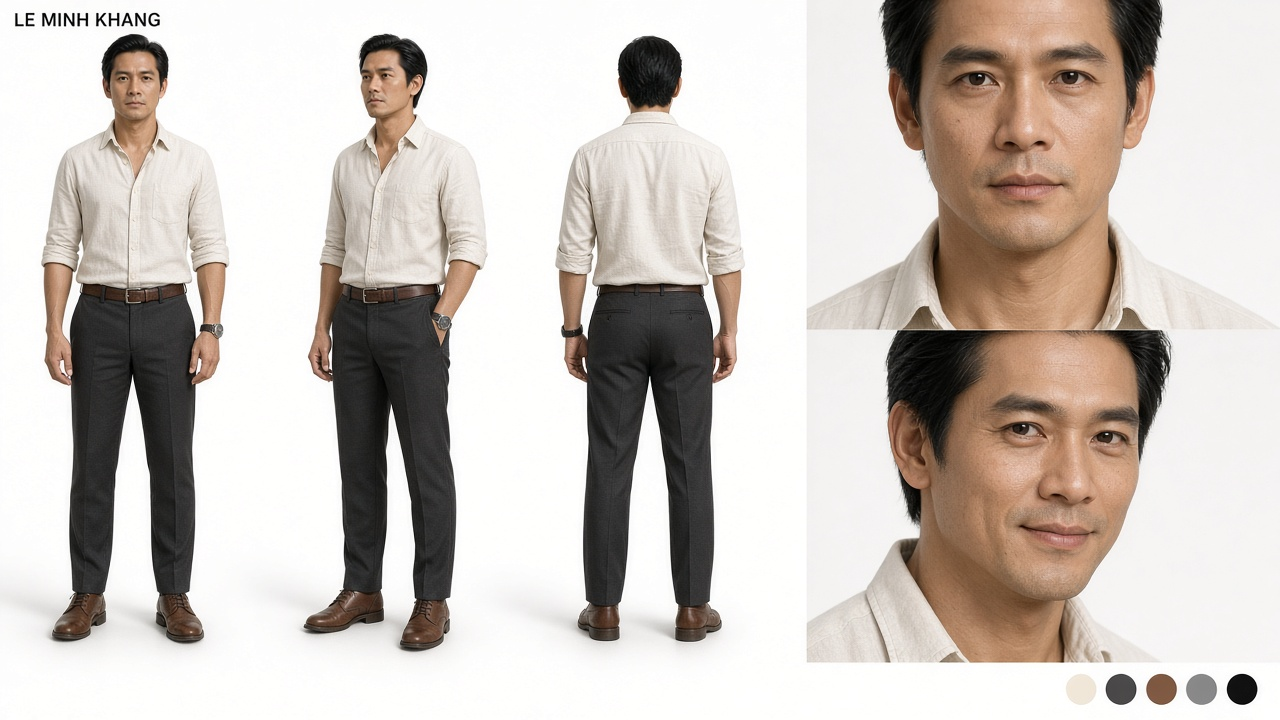
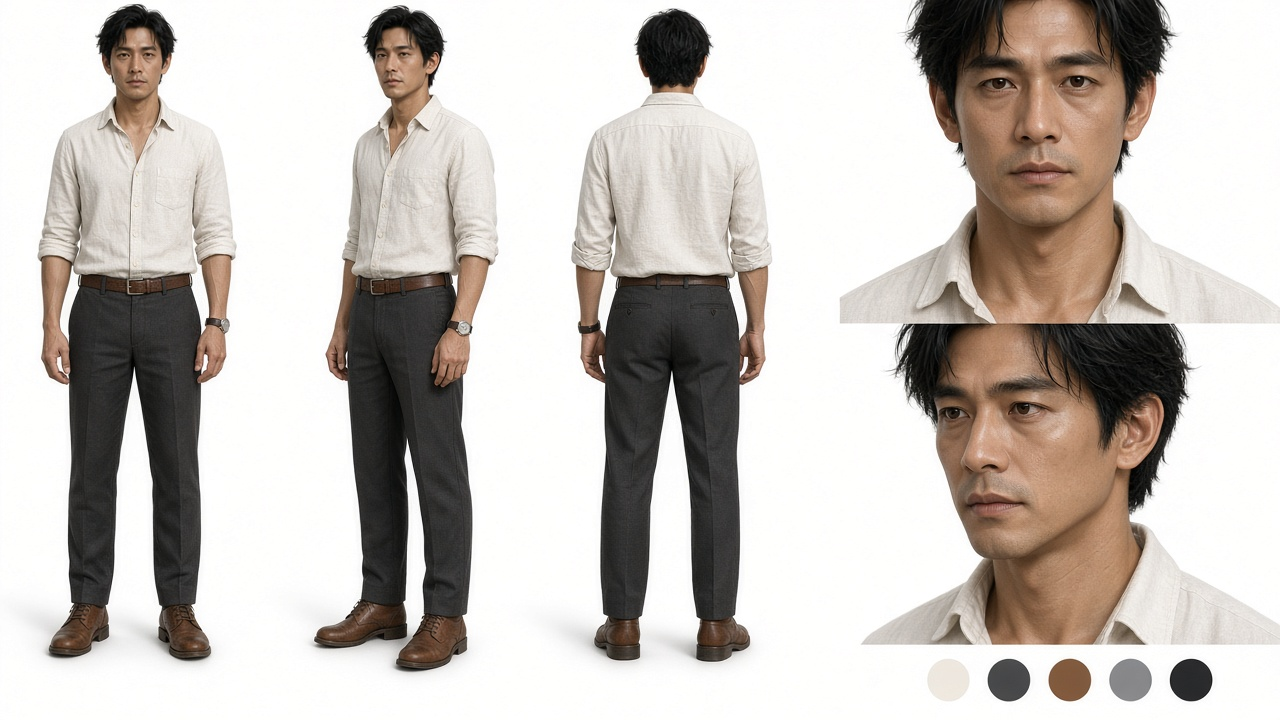
Khoá lại mặt Khang, Nam, Bảo, Lực: bốn khuôn khác xương và tuổi
Khang mặt dài mắt sâu; Nam tròn có lúm; Bảo 50 muối tiêu; Lực cua bạc đại tá.

diff --git a/character-sheet/character-sheet.md b/character-sheet/character-sheet.md
@@ -20,8 +20,8 @@ Thiết kế tạo hình nhân vật. Bối cảnh Sài Gòn 2026, phong cách h
 |---|---|
 | **Tuổi / Chiều cao** | 36 / 1m82 |
 | **Vóc dáng** | Gầy rắn, vai rộng, kiểu người tập võ chứ không tập gym |
-| **Gương mặt** | Góc hàm sắc, mắt sâu luôn như đang "đọc" người đối diện, vết sẹo mờ nhỏ ở cằm |
-| **Tóc** | Đen, ngắn, vuốt ngược tự nhiên, hơi rối về cuối ngày |
+| **Gương mặt** | Mặt dài hẹp, xương gò má cao, mắt sâu mí hơi sụp, môi mỏng, sẹo mờ 1 cm ở cằm. **Không** dùng chung khuôn với Nam |
+| **Tóc** | Đen, vuốt ngược, rối cuối ngày — không rẽ ngôi, không bóng như Nam |
 | **Da / Trang điểm** | Da sáng hồng kiểu Kinh thành thị, không trang điểm – chỉ dưỡng để da khoẻ. Cạo sạch, không ria |
 | **Trang phục chủ đạo** | Sơ mi linen màu ngà xắn tay đến khuỷu, quần âu xám than ống đứng, thắt lưng da nâu, boots da nâu, đồng hồ thép tối giản |
 | **Biến thể** | Đêm gala: vest đen mượn, hơi rộng vai. Hành động: cùng bộ nhưng rách, ướt, dính bột chữa cháy |
@@ -84,8 +84,8 @@ Thiết kế tạo hình nhân vật. Bối cảnh Sài Gòn 2026, phong cách h
 |---|---|
 | **Tuổi / Chiều cao** | 55 / 1m78 |
 | **Vóc dáng** | Chắc, vai vuông, dáng đứng quân nhân |
-| **Gương mặt** | Nghiêm, chân mày đậm, mắt sâu không đọc được, nếp nhăn trán |
-| **Tóc** | Bạc trắng, cắt cua sát |
+| **Gương mặt** | Sọ rộng, trán nhiều rãnh ngang, mí nặng, mũi bề ngang, miệng mỏng. Mặt đại tá chứ không phải diễn viên. **Không** Khang già đi |
+| **Tóc** | Bạc trắng, cắt cua sát da đầu |
 | **Da / Trang điểm** | Da hồng khoẻ, không trang điểm, cạo râu sạch |
 | **Trang phục chủ đạo** | Thường phục: polo xanh navy, quần tây xám, giày da đen, đồng hồ thép cũ, ly cà phê đen giấy. Lễ phục: quân phục xanh rêu đầy đủ cấp hiệu (đêm gala) |
 | **Bảng màu** | Xanh rêu – Navy – Xám – Đen |
@@ -99,8 +99,8 @@ Thiết kế tạo hình nhân vật. Bối cảnh Sài Gòn 2026, phong cách h
 |---|---|
 | **Tuổi / Chiều cao** | 36 / 1m80 |
 | **Vóc dáng** | Thể thao, cân đối – người "đẹp trai nhất đội" |
-| **Gương mặt** | Dễ mến, má lúm, nụ cười ấm – nhưng mắt phải diễn được hai trạng thái: ấm và trống rỗng |
-| **Tóc** | Đen, dài vừa, rẽ ngôi lệch gọn gàng |
+| **Gương mặt** | Sọ tròn hơn Khang, má đầy, lúm má trái khi cười, mắt to ấm. **Không** mặt dài mắt sâu như Khang |
+| **Tóc** | Đen dài hơn, rẽ ngôi lệch, mái đổ trán — không vuốt ngược |
 | **Da / Trang điểm** | Da hồng sáng, chăm sóc kỹ, hơi "quá đẹp" so với lương công an – gợi ý ngầm về tiền |
 | **Trang phục chủ đạo** | Sơ mi oxford xanh nhạt xắn tay, chinos navy, giày lười da nâu, vòng tay da mảnh, điện thoại luôn trên tay |
 | **Bảng màu** | Xanh nhạt – Navy – Nâu – Trắng |
@@ -114,8 +114,8 @@ Thiết kế tạo hình nhân vật. Bối cảnh Sài Gòn 2026, phong cách h
 |---|---|
 | **Tuổi / Chiều cao** | 50 / 1m80 |
 | **Vóc dáng** | Săn chắc, dáng diễn giả, tay hay mở rộng khi nói |
-| **Gương mặt** | Phong độ, lịch lãm, nụ cười hiền "quen được chụp hình" – không bao giờ chạm tới mắt |
-| **Tóc** | Muối tiêu, chải chuốt hoàn hảo từng sợi |
+| **Gương mặt** | Năm mươi thật: sọ vuông mềm, cằm tròn, nếp cười, mí nặng. Nụ cười diễn giả không vào mắt. **Không** mặt 36 tuổi đội tóc muối tiêu |
+| **Tóc** | Muối tiêu, đường tóc lùi, chải từng sợi |
 | **Da / Trang điểm** | Da hồng mịn, chăm sóc spa định kỳ, có lớp phấn phủ rất mỏng cho máy quay |
 | **Trang phục chủ đạo** | Vest ba mảnh xám nhạt may đo, sơ mi trắng mở cổ không cà vạt, ghim cài áo hình trái tim vàng (logo Quỹ), đồng hồ vàng, giày oxford nâu bóng, vòng hạt ngọc bích nhỏ |
 | **Biến thể** | Gala: vest xám đậm hơn, có cà vạt. Sân thượng: vest xộc xệch, lần đầu không chỉnh tề |
